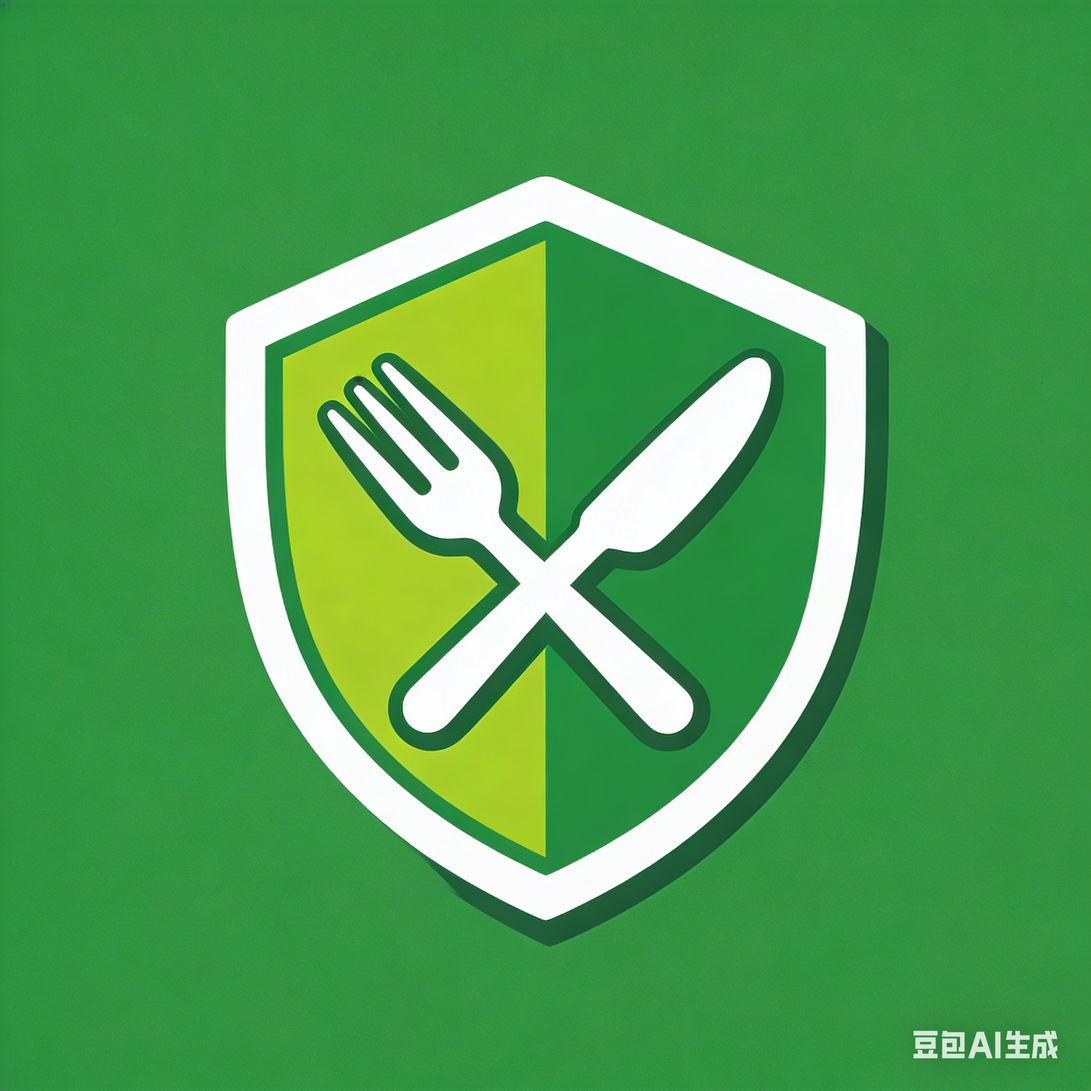
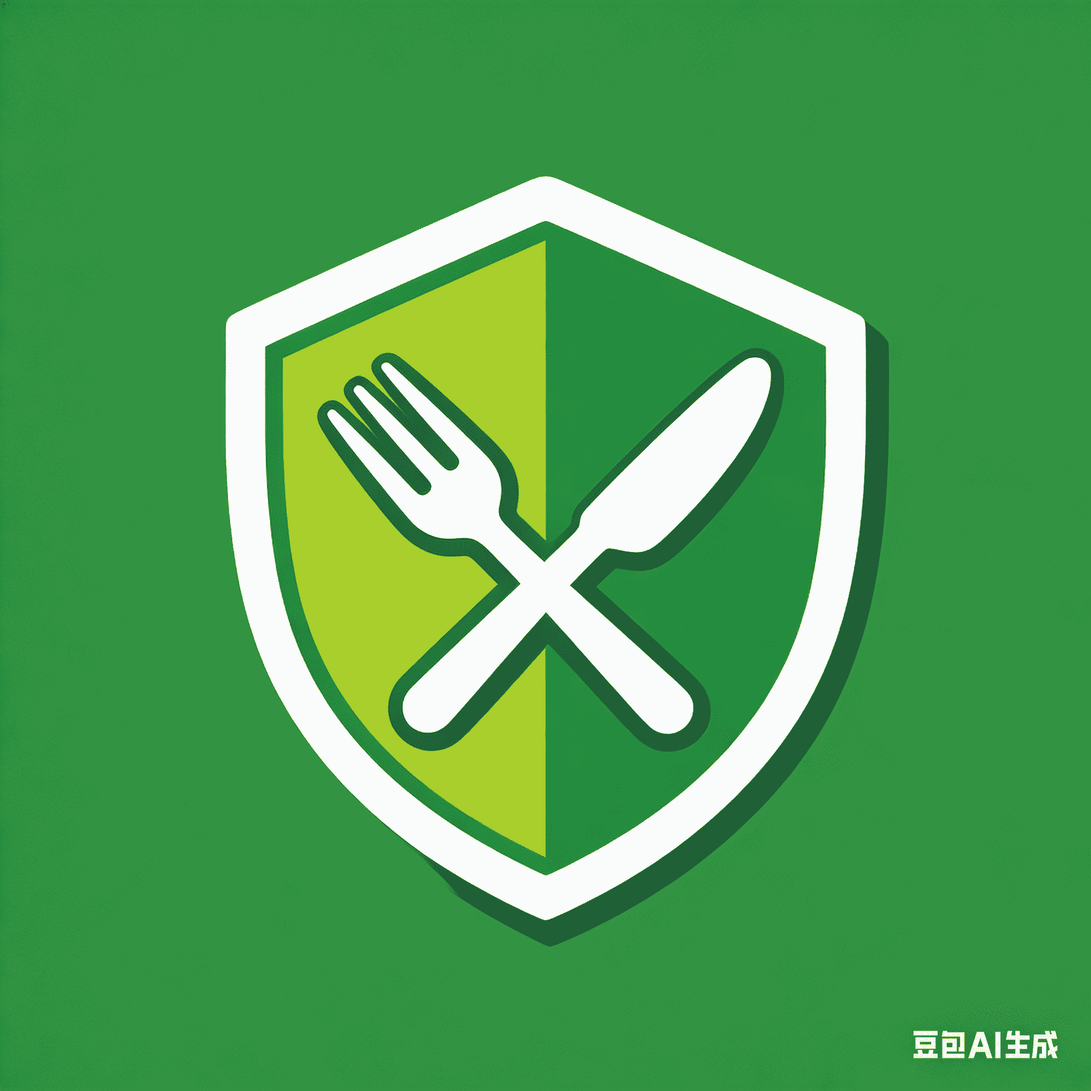
fix:修复了登录代码，压缩了前端图片使得真机可测

diff --git a/foodSafety/pages/login/login.js b/foodSafety/pages/login/login.js
@@ -294,10 +294,11 @@ Page({
 
   // 切换协议同意状态
   toggleAgreement(e) {
-    console.log('协议状态变更:', e.detail.value);
-    console.log('是否勾选：', isAgreed); // 勾选时应输出 true
+    console.log('协议状态变更:', e.detail.value);    
     // 修正：判断数组是否包含"agree"，转为布尔值
     const isAgreed = e.detail.value.includes('agree');
+    console.log('是否勾选：', isAgreed); // 勾选时应输出 true
+
     this.setData({
       agreed: isAgreed // 此时agreed才是true/false
     });

diff --git a/foodSafety/app.js b/foodSafety/app.js
@@ -4,7 +4,7 @@ App({
     userInfo: null,
     token: null,
     isLoggedIn: false,
-    baseURL: 'http://localhost:8080', // 确保这是你的后端地址
+    baseURL: 'http://172.16.0.32:8080', // 确保这是你的后端地址
     env: 'prod', // 改为生产环境
     
     userProfile: null,

diff --git a/Food-Safety/server/src/main/java/com/itheima/server/service/impl/UserServiceImpl.java b/Food-Safety/server/src/main/java/com/itheima/server/service/impl/UserServiceImpl.java
@@ -105,6 +105,11 @@ public class UserServiceImpl implements UserService {
         String json = HttpClientUtil.doGet(WX_LOGIN_URL, params);
         log.info("微信接口返回: {}", json);
 
+        log.info("准备调用微信 jscode2session");
+        log.info("使用的 appid : {}", appid);               // ← 关键！看这里是不是 null 或错的
+        log.info("使用的 secret 长度: {}", secret == null ? "null" : secret.length());
+        log.info("传入的 code: {}", code);
+
         JSONObject jsonObject = JSON.parseObject(json);
         String openid = jsonObject.getString("openid");
         
